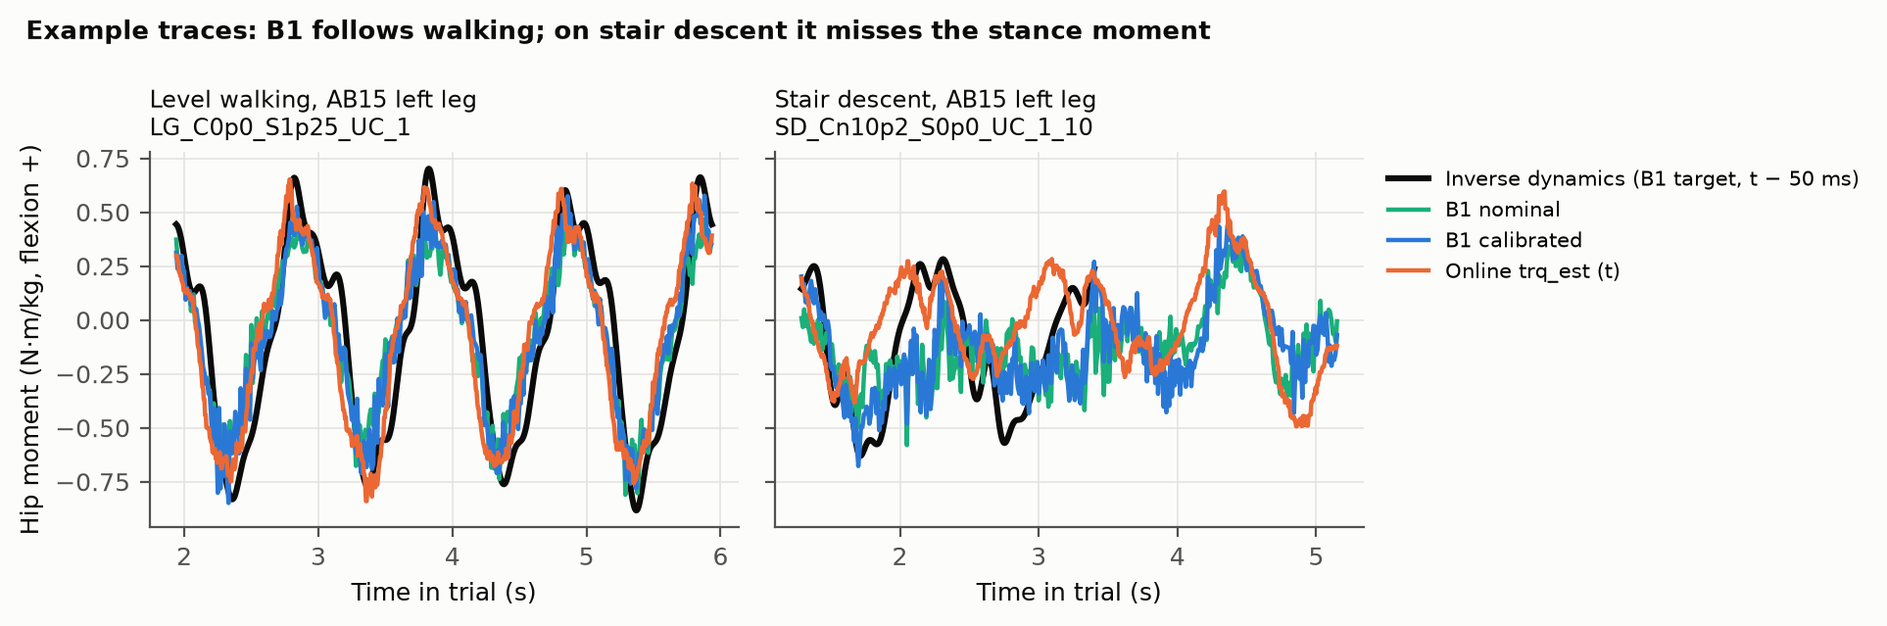
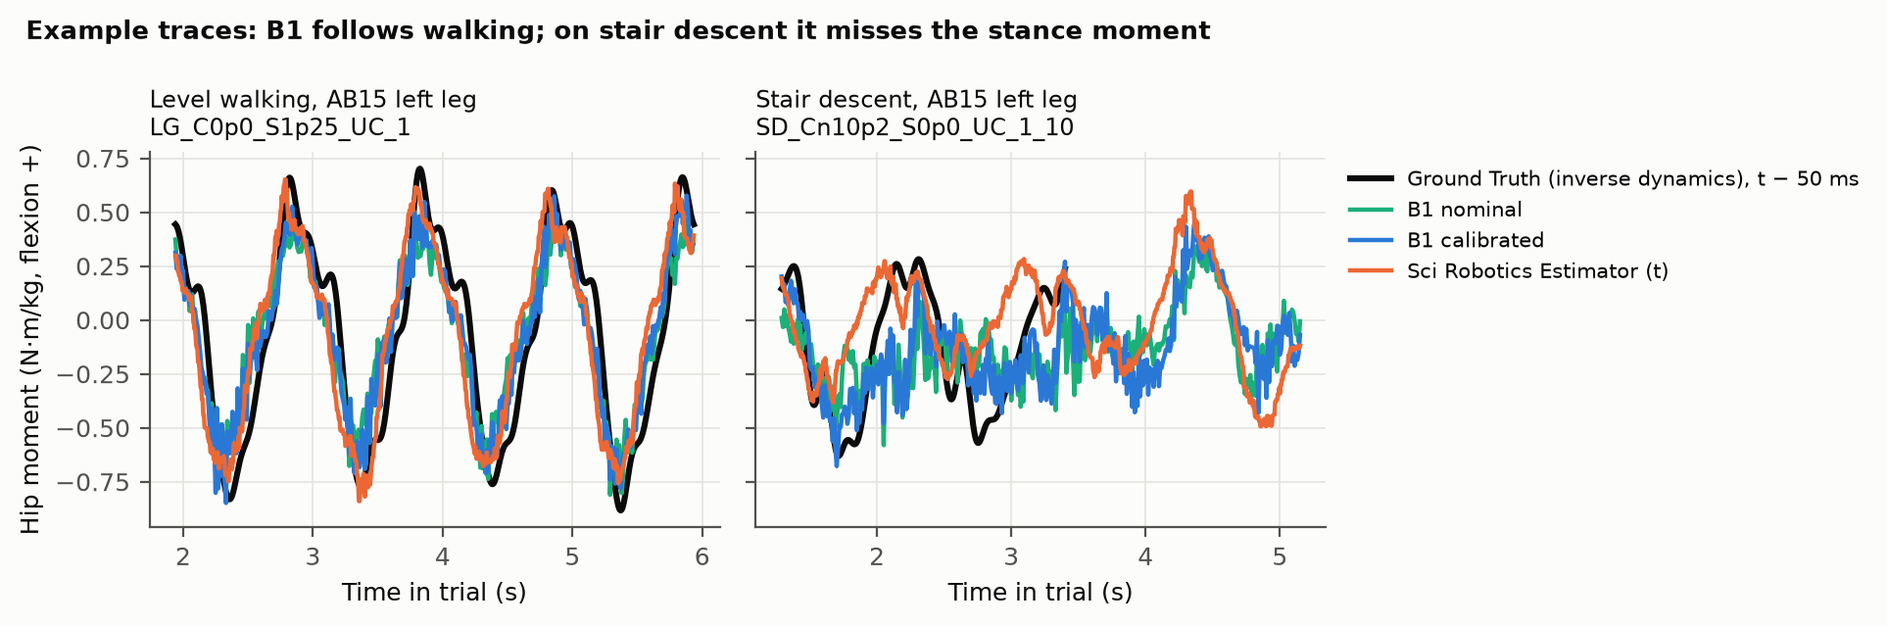
Estimator names; B1 vs Nature Estimator vs Ground Truth figures (D02)
- Names used throughout docs, figures and analysis output: B1, Sci Robotics Estimator (the dataset's
  trq_est), Nature Estimator (the Nature dataset's recorded estimate), Ground Truth (inverse dynamics),
  Lab Model (not run).
- plot_nature.py: per-task R^2 and traces on the Phase 3 test participants (B1 0.81 vs Nature Estimator
  0.72 pooled); embedded in D02. D03 figures regenerated with the new names.

diff --git a/deployment/plot_replay.py b/deployment/plot_replay.py
@@ -22,7 +22,7 @@ import scirob_replay as sr  # noqa: E402
 
 FIGURES = Path(__file__).resolve().parent / 'docs' / 'figures'
 INK, MUTED, GRID, SURFACE = '#0b0b0b', '#52514e', '#e4e3df', '#fcfcfb'
-SERIES = {'B1 calibrated': '#2a78d6', 'Online trq_est': '#eb6834', 'B1 nominal': '#1baf7a'}   # fixed order
+SERIES = {'B1 calibrated': '#2a78d6', 'Sci Robotics Estimator': '#eb6834', 'B1 nominal': '#1baf7a'}   # fixed order
 MODES = ('LG', 'RA', 'RD', 'SA', 'SD')
 MODE_NAMES = {'LG': 'Level\nwalking', 'RA': 'Ramp\nascent', 'RD': 'Ramp\ndescent', 'SA': 'Stair\nascent', 'SD': 'Stair\ndescent',
               'ST': 'Standing', 'TR': 'Transitions'}
@@ -43,8 +43,8 @@ def plot_modes(rows: pd.DataFrame, tag: str) -> None:
     table = ar.score(rows, ['mode']).set_index('mode')
     modes = [m for m in (*MODES, 'ST', 'TR') if m in table.index]          # ST and TR only where inverse dynamics exists
     table = table.reindex(modes)
-    columns = {'B1 nominal': 'B1 nominal r2', 'B1 calibrated': 'B1 calibrated r2', 'Online trq_est': 'online trq_est r2'}
-    order = [name for name in ('B1 nominal', 'B1 calibrated', 'Online trq_est') if columns[name] in table]
+    columns = {'B1 nominal': 'B1 nominal r2', 'B1 calibrated': 'B1 calibrated r2', 'Sci Robotics Estimator': 'Sci Robotics Estimator r2'}
+    order = [name for name in ('B1 nominal', 'B1 calibrated', 'Sci Robotics Estimator') if columns[name] in table]
     columns = {k: v for k, v in columns.items() if k in order}
     fig, ax = plt.subplots(figsize = (7.2 if len(modes) <= 5 else 8.4, 3.4))
     width = 0.78 / len(order)
@@ -57,11 +57,11 @@ def plot_modes(rows: pd.DataFrame, tag: str) -> None:
                         fontsize = 7, color = MUTED)
     ax.axhline(0, color = MUTED, lw = 0.8)
     ax.set_xticks(range(len(modes)), [f'{MODE_NAMES[m]}\nn={int(table.loc[m, "n"]):,}' for m in modes])
-    ax.set_ylabel('Hip moment R² (vs inverse dynamics)')
+    ax.set_ylabel('Hip moment R² vs Ground Truth')
     ax.set_ylim(min(-0.3, np.nanmin(table[list(columns.values())].to_numpy()) - 0.1), 1)
     ax.grid(axis = 'x', visible = False)
     ax.legend(ncol = 3, loc = 'upper right', fontsize = 8)
-    title = 'B1 trails the exo\'s own estimator on every mode' + ('; calibration helps most on stairs' if 'B1 nominal' in order else '')
+    title = 'B1 trails the Sci Robotics Estimator on every mode' + ('; calibration helps most on stairs' if 'B1 nominal' in order else '')
     ax.set_title(title, loc = 'left', fontsize = 9.5, color = INK, fontweight = 'bold')
     save(fig, f'D03_{tag}_r2_per_mode.png')
 
@@ -86,11 +86,11 @@ def plot_traces(subject: str, tag: str, sign: float, source: str) -> None:
         t = np.arange(n)[span] / sr.nt.RATE_HZ
         b1 = {v: pred[f'pred_{v}'][s:s + n, 0] for v in sr.VARIANTS if f'pred_{v}' in pred.files}
         lagged = np.r_[np.full(ar.LAG, np.nan), moment[:-ar.LAG]]           # B1 at t estimates the moment at t - 10
-        ax.plot(t, lagged[span], color = INK, lw = 2.2, label = 'Inverse dynamics (B1 target, t − 50 ms)')
+        ax.plot(t, lagged[span], color = INK, lw = 2.2, label = 'Ground Truth (inverse dynamics), t − 50 ms')
         for name, y in [(f'B1 {v}', y) for v, y in b1.items()]:
             yy = y[span]
             ax.plot(t[np.isfinite(yy)], yy[np.isfinite(yy)], color = SERIES[name], lw = 1.6, label = name)
-        ax.plot(t, sign * data['trq_est'][s:s + n, 0][span], color = SERIES['Online trq_est'], lw = 1.6, label = 'Online trq_est (t)')
+        ax.plot(t, sign * data['trq_est'][s:s + n, 0][span], color = SERIES['Sci Robotics Estimator'], lw = 1.6, label = 'Sci Robotics Estimator (t)')
         ax.set_title(f'{MODE_NAMES[mode].replace(chr(10), " ")}, {subject} left leg\n{data["trial"][k]}', loc = 'left',
                      fontsize = 8.5, color = INK)
         ax.set_xlabel('Time in trial (s)')
@@ -134,15 +134,15 @@ def plot_lag(subjects: list[str], sign: float, tag: str) -> None:
     scan = ar.get_lag_scan(subjects, sign)
     ms = scan['lag_samples'] * 1000 / sr.nt.RATE_HZ
     fig, ax = plt.subplots(figsize = (6.4, 3.2))
-    for name, col in (('B1 calibrated', 'B1 calibrated'), ('Online trq_est', 'online trq_est')):
+    for name, col in (('B1 calibrated', 'B1 calibrated'), ('Sci Robotics Estimator', 'Sci Robotics Estimator')):
         i = int(scan[col].idxmax())
         ax.plot(ms, scan[col], color = SERIES[name], lw = 2, marker = 'o', ms = 5, mec = SURFACE, mew = 1.5,
                 label = f'{name} (peak r {scan[col][i]:.3f} at {ms[i]:.0f} ms)')
     ax.axvline(ar.LAG * 1000 / sr.nt.RATE_HZ, color = MUTED, lw = 1, ls = '--')
     ax.annotate('B1 trained to estimate\n50 ms behind (scoring rule)', (ar.LAG * 1000 / sr.nt.RATE_HZ, 0.55), xytext = (5, 0),
                 textcoords = 'offset points', fontsize = 7.5, color = MUTED)
-    ax.set_xlabel('Lag: prediction at t vs moment at t − lag (ms)')
-    ax.set_ylabel('Correlation r with inverse dynamics')
+    ax.set_xlabel('Lag: prediction at t vs Ground Truth at t − lag (ms)')
+    ax.set_ylabel('Correlation r with Ground Truth')
     ax.legend(loc = 'lower left', fontsize = 7.5, bbox_to_anchor = (0.1, 0.0))
     ax.set_title('On Sci-Rob, B1 lines up best at 0–25 ms, not the 50 ms it was trained for', loc = 'left', fontsize = 9.5,
                  fontweight = 'bold', color = INK)
@@ -171,7 +171,7 @@ def plot_device(subjects: list[str], tag: str) -> None:
     ax1.set_ylabel('Steps (log)')
     ax1.set_title('Latency per 100 Hz step, two legs', loc = 'left', fontsize = 9, color = INK)
     bins = np.logspace(-9, -2, 71)
-    ax2.hist(np.clip(diffs, 1e-9, None), bins = bins, color = SERIES['Online trq_est'], zorder = 3)
+    ax2.hist(np.clip(diffs, 1e-9, None), bins = bins, color = SERIES['Sci Robotics Estimator'], zorder = 3)
     ax2.set_xscale('log')
     ax2.axvline(5e-3, color = INK, lw = 1.2, ls = '--')
     ax2.annotate('tolerance 5e-3', (5e-3, ax2.get_ylim()[1] * 0.8), xytext = (-4, 0), textcoords = 'offset points', ha = 'right',

diff --git a/deployment/plot_nature.py b/deployment/plot_nature.py
@@ -1,0 +1,105 @@
+"""Figures: B1 vs the Nature Estimator vs Ground Truth on the Nature test participants (Phase 3), per task and as traces.
+
+    .venv/bin/python deployment/plot_nature.py [ml/nature/estimator/runs/hip_thigh_aug_s2]
+
+B1: the run's saved test predictions (``preds_test.npz``; the TensorRT engine on the Jetson reproduces them, D02).
+Nature Estimator: the study's estimator as recorded during collection (the dataset's ``*_torque_estimated``), hip sign
+flipped to OpenSim flexion-positive and Phase 3 only, as ``score_moment.py`` does. Ground Truth: the dataset's inverse
+dynamics (``Joint_Moments_Filt``), the hip 50 ms behind each window's end, as B1 was trained. Phase 3 test participants
+(BT19, BT22) were already scored in E41; this pools windows per task (E41 averages per participant first). Writes
+deployment/docs/figures/D02_nature_*.png.
+"""
+from pathlib import Path
+import sys
+
+import matplotlib
+matplotlib.use('Agg')
+import matplotlib.pyplot as plt  # noqa: E402
+import numpy as np  # noqa: E402
+import pandas as pd  # noqa: E402
+
+REPO = Path(__file__).resolve().parents[1]
+sys.path.insert(0, str(REPO / 'deployment'))
+sys.path.insert(0, str(REPO / 'ml' / 'nature' / 'estimator'))
+from plot_replay import INK, MUTED, SURFACE, save  # noqa: E402  (same style as D03)
+from score_moment import DEPLOYED_SIGN  # noqa: E402
+
+WINDOWS = REPO / 'data' / 'processed_nature' / 'moment' / 'windows.parquet'
+B1_COLOR, NATURE_COLOR = '#2a78d6', '#eb6834'
+
+
+def get_r2(pred: np.ndarray, target: np.ndarray) -> float:
+    return float(1 - np.sum((pred - target) ** 2) / np.sum((target - target.mean()) ** 2))
+
+
+def load(run: Path) -> pd.DataFrame:
+    """One row per Phase 3 test window with B1, the Nature Estimator and Ground Truth all defined."""
+    d = np.load(run / 'preds_test.npz')
+    w = pd.read_parquet(WINDOWS).iloc[d['rows']].reset_index(drop = True)
+    df = w[['subject', 'phase', 'task', 'rec', 'end', 'leg', 'paper_train']].assign(
+        b1 = d['pred'][:, 0], nature = DEPLOYED_SIGN[0] * d['estimate'][:, 0], truth = d['target'][:, 0])
+    df = df[(df['phase'] == 'phase3') & df[['b1', 'nature', 'truth']].notna().all(axis = 1)]
+    df['task'] = df['task'].astype(str)
+    return df.reset_index(drop = True)
+
+
+def plot_tasks(df: pd.DataFrame) -> None:
+    rows = []
+    for task, g in df.groupby('task'):
+        rows.append({'task': task, 'n': len(g), 'B1': get_r2(g['b1'].to_numpy(), g['truth'].to_numpy()),
+                     'Nature Estimator': get_r2(g['nature'].to_numpy(), g['truth'].to_numpy()), 'trained': bool(g['paper_train'].iloc[0])})
+    t = pd.DataFrame(rows).sort_values('B1')
+    fig, ax = plt.subplots(figsize = (7.6, 7.4))
+    y = np.arange(len(t))
+    h = 0.38
+    ax.barh(y + h / 2, t['B1'].clip(lower = -1), h, color = B1_COLOR, label = 'B1', zorder = 3)
+    ax.barh(y - h / 2, t['Nature Estimator'].clip(lower = -1), h, color = NATURE_COLOR, label = 'Nature Estimator', zorder = 3)
+    labels = [f"{r.task.replace('_', ' ')}{'' if r.trained else ' *'}" for r in t.itertuples()]
+    ax.set_yticks(y, labels, fontsize = 7.5)
+    ax.axvline(0, color = MUTED, lw = 0.8)
+    ax.set_xlim(-1, 1)
+    ax.set_xlabel('Hip moment R² vs Ground Truth (clipped at −1)')
+    ax.grid(axis = 'y', visible = False)
+    pooled_b1 = get_r2(df['b1'].to_numpy(), df['truth'].to_numpy())
+    pooled_n = get_r2(df['nature'].to_numpy(), df['truth'].to_numpy())
+    ax.legend(loc = 'lower left', fontsize = 8, title = f'pooled: B1 {pooled_b1:.2f}, Nature Est. {pooled_n:.2f}', title_fontsize = 7.5)
+    ax.annotate('* task not in B1\'s training set', (0.0, -0.085), xycoords = 'axes fraction', fontsize = 7.5, color = MUTED)
+    ax.set_title('Nature data (Phase 3 test participants): B1 beats the Nature Estimator on most tasks', loc = 'left',
+                 fontsize = 9.5, fontweight = 'bold', color = INK)
+    save(fig, 'D02_nature_r2_per_task.png')
+
+
+def plot_traces(df: pd.DataFrame) -> None:
+    """Window-by-window time series (every 5th sample, 40 Hz) of one recording per task, right leg."""
+    fig, axes = plt.subplots(1, 3, figsize = (12, 3.2), sharey = True)
+    for ax, task in zip(axes, ('normal_walk', 'stairs', 'squats')):
+        g = df[(df['task'] == task) & (df['leg'] == 1)]
+        rec = g.groupby('rec').size().idxmax()
+        g = g[g['rec'] == rec].sort_values('end')
+        end = g['end'].to_numpy()
+        gap = np.r_[False, np.diff(end) > 5]                                    # windows missing: break the line, don't bridge
+        t = np.insert((end - end[0]) / 200, np.flatnonzero(gap), np.nan)
+        series = {k: np.insert(g[k].to_numpy(float), np.flatnonzero(gap), np.nan) for k in ('truth', 'b1', 'nature')}
+        keep = ~(t > 6)
+        ax.plot(t[keep], series['truth'][keep], color = INK, lw = 2.2, label = 'Ground Truth (inverse dynamics)')
+        ax.plot(t[keep], series['b1'][keep], color = B1_COLOR, lw = 1.6, label = 'B1')
+        ax.plot(t[keep], series['nature'][keep], color = NATURE_COLOR, lw = 1.6, label = 'Nature Estimator')
+        ax.set_title(f"{task.replace('_', ' ')}, {g['subject'].iloc[0]} right leg", loc = 'left', fontsize = 9, color = INK)
+        ax.set_xlabel('Time (s)')
+    axes[0].set_ylabel('Hip moment (N·m/kg, flexion +)')
+    axes[-1].legend(fontsize = 7.5, loc = 'upper left', bbox_to_anchor = (1.01, 1))
+    fig.suptitle('Nature data: example traces against Ground Truth', x = 0.01, ha = 'left', fontsize = 9.5, fontweight = 'bold', color = INK)
+    fig.tight_layout()
+    save(fig, 'D02_nature_example_traces.png')
+
+
+def main() -> None:
+    run = Path(sys.argv[1]) if len(sys.argv) > 1 else REPO / 'ml' / 'nature' / 'estimator' / 'runs' / 'hip_thigh_aug_s2'
+    df = load(run)
+    print(f'{len(df):,} Phase 3 test windows, {df["task"].nunique()} tasks, people {sorted(df["subject"].astype(str).unique())}')
+    plot_tasks(df)
+    plot_traces(df)
+
+
+if __name__ == '__main__':
+    main()

diff --git a/deployment/analyze_replay.py b/deployment/analyze_replay.py
@@ -1,4 +1,5 @@
-"""Score the Sci-Rob replay (stage A): B1 vs inverse dynamics vs the estimator that ran on the exo.
+"""Score the Sci-Rob replay (stage A): B1 and the Sci Robotics Estimator (the dataset's ``trq_est``, the estimator
+that ran on the exo during collection) against Ground Truth (inverse dynamics, the dataset's ``moment``).
 
     .venv/bin/python deployment/analyze_replay.py [--source jetson|reference] [--subjects dev|final|all]
 
@@ -76,7 +77,7 @@ def score(rows: pd.DataFrame, by: list[str]) -> pd.DataFrame:
     out = []
     for key, g in rows[common].groupby(by):
         entry = dict(zip(by, key if isinstance(key, tuple) else (key,)), n = len(g))
-        for name, pred, target in [(f'B1 {c[3:]}', c, 'moment_lag') for c in b1] + [('online trq_est', 'trq_est', 'moment_t')]:
+        for name, pred, target in [(f'B1 {c[3:]}', c, 'moment_lag') for c in b1] + [('Sci Robotics Estimator', 'trq_est', 'moment_t')]:
             entry.update({f'{name} {k}': v for k, v in get_metrics(g[pred].to_numpy(), g[target].to_numpy()).items()})
         out.append(entry)
     return pd.DataFrame(out)
@@ -88,7 +89,7 @@ def get_lag_scan(subject_files: list[str], sign: float) -> pd.DataFrame:
     result = []
     for lag in range(-30, 31, 5):
         rs = {'lag_samples': lag}
-        for name, col in (('B1 calibrated', 'pred_calibrated'), ('online trq_est', None)):
+        for name, col in (('B1 calibrated', 'pred_calibrated'), ('Sci Robotics Estimator', None)):
             preds, targets = [], []
             for subject in subject_files:
                 data = np.load(sr.OUT / f'{subject}.npz')

diff --git a/deployment/docs/D03_scirob_replay_stage_a.md b/deployment/docs/D03_scirob_replay_stage_a.md
@@ -1,4 +1,4 @@
-# D03: Stage A replay: B1 streamed on the Jetson over Sci-Rob exo recordings, against inverse dynamics and the exo's online estimator
+# D03: Stage A replay: B1 streamed on the Jetson over Sci-Rob exo recordings, against Ground Truth and the Sci Robotics Estimator
 
 | Field | Value |
 |---|---|
@@ -8,6 +8,12 @@
 | Status | Complete. Dev 2026-10-27; final 16 predicted sealed on the Jetson overnight 2026-10-27 (D04's T1, calibrated) and scored once 2026-10-29 |
 | Sources | D02 (the B1 engine), E41 (B1), E01 (Sci-Rob audit, axis conventions) |
 | Code / notebooks | `deployment/scirob_replay.py` (converter, Mac), `replay_reference.py` (PyTorch reference, Mac), `replay_runner.py` (streaming replay, Jetson), `analyze_replay.py`, `plot_replay.py` (figures in `docs/figures/D03_*`); streams and predictions in `data/replay/scirob/` (gitignored) |
+
+**Names.** *B1*: this project's estimator (E41). *Sci Robotics Estimator*: the hip moment the Science Robotics
+study's estimator produced live on the exo during collection, provided in the dataset (`exo.csv`, `trq_est_l/r`);
+numbers only, the model itself is not available. *Ground Truth*: inverse dynamics from motion capture and force plates,
+provided in the dataset (`moment.csv`), NaN off the force plates. *Lab Model*: the lab's TCN in `HipExoGPUCode`, not run
+here.
 
 ## Hypothesis
 
@@ -19,8 +25,8 @@ Stated before any result was seen.
 - **(c)** Per-person IMU calibration (the E41 deployment design) beats the bare axis map, mostly on the left leg, whose
   IMU sits rolled 23–36°, beyond B1's 15° training randomization.
 - **(d)** On a new device and new people, B1 loses accuracy against its Nature test level (Phase 3 hip R² 0.70) but stays
-  usable. The online estimator, built for this exo and recorded running on it, is the stronger reference on these
-  cyclic tasks.
+  usable. The Sci Robotics Estimator, built for this exo and recorded running on it, is the stronger reference on
+  these cyclic tasks.
 
 ## Method
 
@@ -47,17 +53,17 @@ Stated before any result was seen.
   - Jetson: one sample at a time into a ring buffer per leg, one engine call per tick, timed (engine only, and the full
     step).
 - **Scoring (`analyze_replay.py`):**
-  - B1's prediction at *t* against the inverse-dynamics hip moment at *t* − 10 (it estimates 50 ms behind); the online
-    estimate `trq_est` at *t*.
-  - All three compared on the same samples: where B1, `trq_est` and the moment all exist (the moment only exists on the
+  - B1's prediction at *t* against Ground Truth at *t* − 10 (it estimates 50 ms behind); the Sci
+    Robotics Estimator at *t*.
+  - All three compared on the same samples: where B1, the Sci Robotics Estimator and Ground Truth all exist (Ground Truth only exists on the
     force plates).
   - Sci-Rob's moment sign relative to B1, from dev only: the sign that makes B1's correlation with the moment positive.
   - R², RMSE, r pooled, per mode, per participant, per leg; Jetson vs reference difference; step latency.
 
 ## Result
 
-Dev participants (AB15, AB19, AB25, AB29), 583,018 leg-samples where B1, the online estimate and the moment all exist.
-Moment sign from dev: Sci-Rob's moment and `trq_est` are opposite to B1's (OpenSim) convention, r about −0.86; flipped.
+Dev participants (AB15, AB19, AB25, AB29), 583,018 leg-samples where B1, the Sci Robotics Estimator and Ground Truth all exist.
+Moment sign from dev: Sci-Rob's Ground Truth and the Sci Robotics Estimator are opposite to B1's (OpenSim) convention, r about −0.86; flipped.
 
 **Jetson vs reference.** 1,599,564 predictions over both variants, on exactly the same samples (asserted): max
 difference 1.6e-3 N·m/kg, 99.9th percentile 3.4e-4.
@@ -70,9 +76,9 @@ priority. Throughput 2.2× real time.
 
 **Accuracy, hip R² (RMSE N·m/kg):**
 
-![Hip R² per mode for B1 nominal, B1 calibrated and the online estimator](figures/D03_dev_r2_per_mode.png)
+![Hip R² per mode for B1 nominal, B1 calibrated and the Sci Robotics Estimator](figures/D03_dev_r2_per_mode.png)
 
-| | n | B1 nominal | B1 calibrated | Online `trq_est` |
+| | n | B1 nominal | B1 calibrated | Sci Robotics Estimator |
 |---|---|---|---|---|
 | Pooled | 583,018 | 0.679 (0.229) | 0.707 (0.219) | **0.838 (0.163)** |
 | Left leg | 295,995 | 0.657 | 0.716 | 0.827 |
@@ -91,11 +97,11 @@ ST and TR have no samples with inverse dynamics.
 ![B1 R² per participant and leg, nominal vs calibrated](figures/D03_dev_calibration.png)
 
 **Timing alignment (diagnostic).** Correlation of each prediction at *t* with the moment at *t* − lag: B1 peaks at lag
-0–5 samples (r 0.859–0.863) rather than the 10 it was trained for (0.840); `trq_est` peaks at 0 (0.919). Sci-Rob's
+0–5 samples (r 0.859–0.863) rather than the 10 it was trained for (0.840); the Sci Robotics Estimator peaks at 0 (0.919). Sci-Rob's
 inverse-dynamics moment appears to sit about 25–50 ms later relative to the sensors than Nature's. Scored at its best lag,
 B1 would gain roughly 0.02 in r; the fixed rule (lag 10) is kept for every number above.
 
-![Correlation with the moment against lag, B1 and the online estimator](figures/D03_dev_lag_scan.png)
+![Correlation with Ground Truth against lag, B1 and the Sci Robotics Estimator](figures/D03_dev_lag_scan.png)
 
 - **(a) holds.** The streaming replay on the Jetson is the reference to 1.6e-3 N·m/kg (TF32 rounding over 1.6 M
   predictions); no sample was predicted on one side and not the other.
@@ -103,16 +109,16 @@ B1 would gain roughly 0.02 in r; the fixed rule (lag 10) is kept for every numbe
   operating-system or garbage-collector pauses in an unprioritized Python process.
 - **(c) holds.** Calibration adds 0.059 R² on the left leg (rolled 23–36°) and nothing on the right (−0.006); pooled
   +0.028, better on 3 of 4 people (AB19 −0.010). It helps most on stairs (SA +0.13, SD +0.17).
-- **(d) holds.** B1 is usable on level and inclined walking (calibrated 0.69–0.79) but behind the online estimator on
-  every mode (pooled 0.707 vs 0.838), and fails on stair descent. The online estimator was built for this exo and these
+- **(d) holds.** B1 is usable on level and inclined walking (calibrated 0.69–0.79) but behind the Sci Robotics Estimator on
+  every mode (pooled 0.707 vs 0.838), and fails on stair descent. The Sci Robotics Estimator was built for this exo and these
   tasks; B1 has never seen this device, its sensor mounting, or Sci-Rob's moment timing.
 
 ### Final participants (scored once, 2026-10-29)
 
 The other 16 participants, calibrated variant only (chosen on dev), predicted on the Jetson by D04's T1 and analyzed once
-with the dev-derived sign and the fixed lag-10 rule. 2,666,586 leg-samples where B1, `trq_est` and the moment all exist.
+with the dev-derived sign and the fixed lag-10 rule. 2,666,586 leg-samples where B1, the Sci Robotics Estimator and Ground Truth all exist.
 
-| | n | B1 calibrated | Online `trq_est` |
+| | n | B1 calibrated | Sci Robotics Estimator |
 |---|---|---|---|
 | Pooled | 2,666,586 | **0.698** (0.227) | **0.843** (0.164) |
 | Left / right leg | | 0.740 / 0.656 | 0.860 / 0.826 |
@@ -129,10 +135,10 @@ with the dev-derived sign and the fixed lag-10 rule. 2,666,586 leg-samples where
 
 ![Example traces, final participant AB16](figures/D03_final_example_traces.png)
 
-- **The final participants reproduce dev:** pooled B1 0.698 against dev's 0.707, the online estimator 0.843 against
-  0.838. B1 is below the online estimator for all 16 people, and for every mode.
+- **The final participants reproduce dev:** pooled B1 0.698 against dev's 0.707, the Sci Robotics Estimator 0.843 against
+  0.838. B1 is below the Sci Robotics Estimator for all 16 people, and for every mode.
 - Standing (ST) has little moment variance, so R² is unstable there; its RMSE is the small one (0.125 N·m/kg), still
-  above the online estimator's 0.078.
+  above the Sci Robotics Estimator's 0.078.
 - The right leg is now the weaker one (0.656 vs left 0.740; dev 0.696 vs 0.716).
 
 ## Conclusion

diff --git a/deployment/docs/D02_b1_tensorrt_engine_on_jetson.md b/deployment/docs/D02_b1_tensorrt_engine_on_jetson.md
@@ -28,7 +28,7 @@
   then with B1.
 - **Real-data check (`export_check_windows.py` → `check_moment_real.py`):** 2048 validation windows with a defined hip
   target, sampled with seed 0 (test participants untouched), raw inputs built exactly as `train_moment.get_batch`, with
-  the cluster's saved predictions (bf16 autocast) and the Nature study's own deployed estimator for the same windows
+  the cluster's saved predictions (bf16 autocast) and the Nature Estimator (the study's estimator as recorded during collection, provided in the dataset) for the same windows
   (hip sign flipped to OpenSim flexion-positive and Phase 3 only, as `score_moment.py` does). Fails unless the engine
   matches PyTorch fp32 on the Jetson (5e-3 N·m/kg) and the run's R² (0.005).
 
@@ -43,14 +43,25 @@
 | Real windows: engine vs PyTorch fp32 on the Jetson, max | 7.6e-5 N·m/kg |
 | Real windows: engine vs the cluster's predictions (bf16), RMS / max | 0.0013 / 0.0078 N·m/kg |
 | Real windows: hip R², engine / cluster / PyTorch fp32 | 0.7530 / 0.7529 / 0.7530 (all 26 tasks; 0.807 is the paper-task subset) |
-| Phase 3 windows (738): hip R², engine / the study's deployed estimator | 0.725 / 0.671 (RMSE 0.193 / 0.211) |
+| Phase 3 windows (738): hip R², engine / the Nature Estimator | 0.725 / 0.671 (RMSE 0.193 / 0.211) |
 
 - **(a), (b), (c) hold.** The engine is the trained model to within bf16-vs-fp32 rounding, and a call takes a fifth of
   the loop's budget.
-- The first comparison against the study's deployed estimator gave R² −3.1: its hip channel is extension-positive and it
+- The first comparison against the Nature Estimator gave R² −3.1: its hip channel is extension-positive and it
   only exists for Phase 3. With `score_moment.py`'s handling the comparison agrees with E41 (B1 ahead).
 - Side finding: the lab's bundled engine (`HipExoGPUCode/online_deployed/model/current_best_tcn_new.trt`) does not load on
   this Jetson (built by an older TensorRT); it must be rebuilt here from its ONNX.
+
+**B1 vs the Nature Estimator vs Ground Truth, all tasks** (`deployment/plot_nature.py`). B1's saved test predictions
+(the engine reproduces them, above) on the Phase 3 test participants BT19 and BT22, the only ones with the Nature
+Estimator; 242,366 windows, 26 tasks. These participants were scored in E41; here windows are pooled per task (E41
+averages per participant first, hence its lower 0.698 vs 0.596). Pooled R²: **B1 0.81, Nature Estimator 0.72**. B1 is
+ahead on 20 of 26 tasks; the Nature Estimator is ahead on squats, lunges, step-ups, ball toss, poses and tug of war,
+mostly tasks B1 never saw in training and where the foot carries the load (E41).
+
+![Hip R² per task, B1 vs the Nature Estimator, Phase 3 test participants](figures/D02_nature_r2_per_task.png)
+
+![Example traces on the Nature data: B1, the Nature Estimator and Ground Truth](figures/D02_nature_example_traces.png)
 
 ## Conclusion
 

diff --git a/deployment/docs/EXPERIMENTS.md b/deployment/docs/EXPERIMENTS.md
@@ -9,7 +9,7 @@ written before results are seen. The current deployment state and plan live in
 | ID | Date | Question | Result |
 |---|---|---|---|
 | [D01](D01_awareness_portability_to_jetson.md) | Oct 27 | Can the validated awareness layer (E39) run on the Jetson's Python 3.10 without changing it? | Refit under scikit-learn 1.7.2 is within seed noise but a different model (0.006% dangerous to the spline). Shipped instead as plain arrays: reproduces E39 to 1e-9, no scikit-learn on the device |
-| [D02](D02_b1_tensorrt_engine_on_jetson.md) | Oct 27 | Does B1 survive conversion to TensorRT on the Jetson, and how fast is it? | Engine vs PyTorch 7.6e-5 N·m/kg on real validation windows; R² 0.7530 vs the run's 0.7529; 1.98 ms per two-leg call. Beats the Nature study's deployed estimator on Phase 3 (0.725 vs 0.671) |
-| [D03](D03_scirob_replay_stage_a.md) | Oct 27 | Stage A replay: B1 streamed on the Jetson over Sci-Rob exo recordings, vs inverse dynamics and the exo's online estimator | Dev (4 people): Jetson = reference to 1.6e-3 N·m/kg; 2.36 ms per step (p99 2.83). B1 calibrated R² 0.707 vs the exo's online estimator 0.838; calibration +0.06 on the rolled left IMU; B1 fails on stair descent. **Final 16 (scored once): B1 0.698 vs online 0.843**, below it for every person and mode |
+| [D02](D02_b1_tensorrt_engine_on_jetson.md) | Oct 27 | Does B1 survive conversion to TensorRT on the Jetson, and how fast is it? | Engine vs PyTorch 7.6e-5 N·m/kg on real validation windows; R² 0.7530 vs the run's 0.7529; 1.98 ms per two-leg call. Beats the Nature Estimator on Phase 3 (0.725 vs 0.671) |
+| [D03](D03_scirob_replay_stage_a.md) | Oct 27 | Stage A replay: B1 streamed on the Jetson over Sci-Rob exo recordings, vs Ground Truth and the Sci Robotics Estimator | Dev (4 people): Jetson = reference to 1.6e-3 N·m/kg; 2.36 ms per step (p99 2.83). B1 calibrated R² 0.707 vs the Sci Robotics Estimator 0.838; calibration +0.06 on the rolled left IMU; B1 fails on stair descent. **Final 16 (scored once): B1 0.698 vs Sci Robotics Estimator 0.843**, below it for every person and mode |
 | [D04](D04_device_timing_and_stability.md) | Oct 27 | Does the device keep time? Latency budget of the whole controller, jitter sources, fp16, 12 h soak at 100 Hz | 12 h at 100 Hz: no drift (p99 2.7 ms every hour, +3% memory, ≤ 45 °C, 3.4 W); device misses 1.4e-5 (96% of misses were the test harness's own file writes). GC freezing / core pinning don't change jitter. Awareness layer 20 ms per window: needs its own 50 ms loop. fp16 7% faster, same accuracy |
 | [D05](D05_encoder_tensorrt.md) | Oct 29 | Do the awareness encoders get faster as TensorRT engines? | TCN-VAE 10.97 → 2.09 ms (5.2×); LSTM-VAE 3.46 → 14.09 ms (4× slower: TensorRT loops the 600-step recurrence, PyTorch uses fused cuDNN). Mix them: awareness ≈ 11.7 ms per window |

diff --git a/deployment/deployability_status.md b/deployment/deployability_status.md
@@ -27,7 +27,7 @@ with the *u* cutoffs set on validation.
 | Python | venv `~/venvs/hipexo` (Python 3.10, `--system-site-packages` so the system TensorRT imports). Activate: `. ~/venvs/hipexo/bin/activate` |
 | GPU stack | CUDA 12.6, cuDNN 9.3, TensorRT 10.3 (system), torch 2.8.0 (NVIDIA's Jetson build, `pypi.jetson-ai-lab.io/jp6/cu126`), pycuda 2024.1 (built on the board) |
 | Pinned packages | The lab's `new_env` versions: numpy 1.26.4, scipy 1.14.0, pandas 2.2.2, scikit-learn 1.5.1, python-can 4.4.2, pyyaml 6.0.1, matplotlib 3.9.1; plus onnx 1.17.0 |
-| Lab code | `~/HipExoGPUCode`, branch `dev/lucien` (git clone of a bundle, origin set to GitHub). Its modules import; its `online_deployed/model/current_best_tcn_new.trt` does **not** load (built by an older TensorRT): rebuild it here from the lab's ONNX before running `main.py` |
+| Lab code | `~/HipExoGPUCode`, branch `uncertainty-aware-hip-exo` (the lab's `dev/lucien` plus your commits) (git clone of a bundle, origin set to GitHub). Its modules import; its `online_deployed/model/current_best_tcn_new.trt` does **not** load (built by an older TensorRT): rebuild it here from the lab's ONNX before running `main.py` |
 | This repo | `~/hip-exo` (filled by `bundle.sh` or `send_moment.sh`; code only so far) |
 | No internet | Wheels are downloaded on the Mac (`pip download --platform manylinux2014_aarch64 --python-version 3.10 ...`) and installed with `pip install --no-index --find-links ~/wheels`; the cached wheels are in `~/wheels` |
 | Clock | Not synced (no internet): it reads 1969. Set it once per boot until it has internet: `ssh -t jetson "sudo date -s '$(date -u +%Y-%m-%dT%H:%M:%SZ)'"` |
@@ -75,7 +75,7 @@ on them on the Jetson, failing unless it matches PyTorch fp32 there and reproduc
 | engine vs PyTorch fp32 on the Jetson, max abs | 7.6e-5 N m/kg |
 | engine vs the cluster's saved predictions (bf16), RMS / max | 0.0013 / 0.0078 N m/kg |
 | hip R², engine / cluster | 0.7530 / 0.7529 (all 26 tasks; 0.807 is the paper-task subset the run summary reports) |
-| Phase 3 windows (738), hip R²: engine / the study's deployed estimator | 0.725 / 0.671 |
+| Phase 3 windows (738), hip R²: engine / the Nature Estimator | 0.725 / 0.671 |
 
 The live inputs still have to be produced in the Nature conventions the engine expects: hip angle (deg) and its causal
 derivative (`features.get_causal_velocity`, deg/s), thigh IMU accel (m/s²) and gyro (deg/s) rotated into the Nature thigh

diff --git a/README.md b/README.md
@@ -502,6 +502,7 @@ deployment/
   replay_runner.py      on the Jetson: streams the replay sample by sample through the engine, timed
   analyze_replay.py     scores B1 vs inverse dynamics vs the exo's online estimator; Jetson vs reference
   plot_replay.py        D03's figures (accuracy per mode, traces, calibration, lag scan, device) -> docs/figures/
+  plot_nature.py        D02's figures: B1 vs the Nature Estimator vs Ground Truth per task and as traces (Nature test data)
   overnight.sh          unattended device-test battery on the Jetson (D04), then auto shutdown; SMOKE=1 for a quick pass
   soak_test.py          on the Jetson: hours of streaming at true 100 Hz pacing, per-tick timing and memory
   latency_budget.py     on the Jetson: per-window latency of every controller component (stand-in weights)
